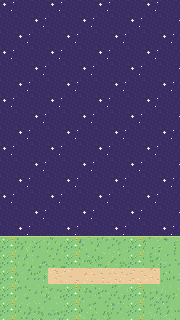
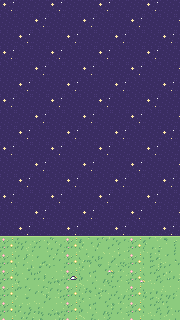
Title/night/dusk backgrounds: sand strip -> grass + small rock and flower clusters (tools/fix_title_bg.py)

Changed region(s): [[0.25, 0.8125, 0.8889, 0.9062]]

diff --git a/tools/fix_title_bg.py b/tools/fix_title_bg.py
@@ -1,0 +1,20 @@
+"""Title / night / dusk backgrounds: the bare sand strip (x 48-159, y 268-283) becomes grass (copied from the same tile column 32 px down,
+so the flower rhythm continues), plus a small rock and two flower clusters from each image's own colours (scene-fix rules)."""
+from PIL import Image
+SAND=(235,203,156)
+ROCK=["..kkk..",".kLsSk.","kLssSSk",".kkkkk."];FL=[".a.b.","aya.b",".t.t."]
+for f in ('bg_night_f0','bg_night_f1','bg_dusk_f0','bg_dusk_f1','bg_nighthome'):
+    p=f'px/{f}.png';im=Image.open(p).convert('RGBA');W,H=im.size
+    if not any(im.getpixel((x,y))[:3]==SAND for y in range(268,284) for x in range(48,160)):print(f,'already fixed');continue
+    for y in range(266,286):
+        for x in range(46,162):im.putpixel((x,y),im.getpixel((x,y+32)))
+    cols=[c for n,c in im.convert('RGB').getcolors(999)];lum=lambda c:.3*c[0]+.6*c[1]+.1*c[2]
+    grass=[c for c in cols if c[1]>c[0]+20 and c[1]>c[2]];dark=min(grass,key=lum);mid=sorted(grass,key=lum)[len(grass)//2]
+    pink=max(cols,key=lambda c:c[0]-c[1]);yel=max(cols,key=lambda c:c[0]+c[1]-2*c[2]);light=max(cols,key=lum);ink=min(cols,key=lum)
+    M={'k':ink,'L':light,'s':(205,196,214) if (205,196,214) in cols else light,'S':mid,'a':pink,'b':yel,'y':light,'t':dark}
+    def draw(spr,x0,y0):
+        for j,r in enumerate(spr):
+            for i,ch in enumerate(r):
+                if ch in M:im.putpixel((x0+i,y0+j),M[ch]+(255,))
+    draw(ROCK,70,276);draw(FL,108,270);draw(FL,140,280)
+    im.save(p);print(f,'fixed')
